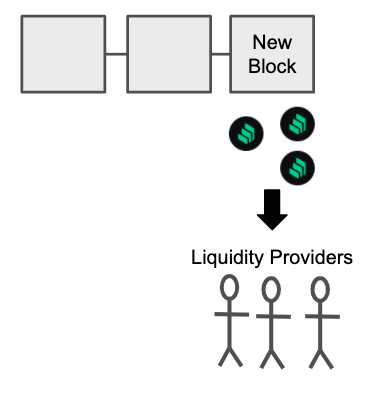
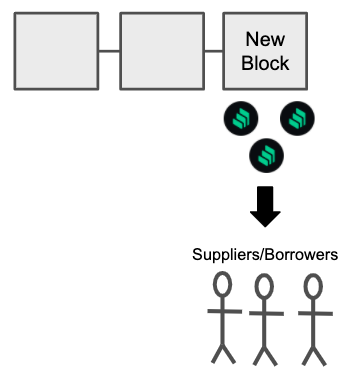
compound guide draft3

Changed region(s): [[0.0307, 0.0311, 0.8911, 0.5907], [0.4916, 0.6218, 0.9525, 0.9637]]

diff --git a/docs/guides/graphical-guide-to-compound.md b/docs/guides/graphical-guide-to-compound.md
@@ -1,18 +1,21 @@
 # A Graphical Guide to Compound
 
 ## Summary
-Compound is a series of smart contracts that allows users to earn interest on their Ethereum assets. What makes Compound unique is that there isn’t a direct counterparty that you have to negotiate with, instead a user only needs to supply their assets and they immediately begin earning interest. There is no hassle of having to discuss a rate or a period of time your assets are required to be locked up for. Users can also borrow different assets from Compound against the ones that they have supplied. Lastly, the supply and borrow rates for each asset are dynamically calculated based on the supply and borrow demand of the protocol.
+The Compound protocol is a series of smart contracts that allows users to earn interest on their Ethereum assets. What makes the protocol unique is that there isn’t a direct counterparty that you have to negotiate with, instead a user only needs to supply their assets and they immediately begin earning interest. There is no hassle of having to discuss a rate or a period of time your assets are required to be locked up for. Users can also borrow different assets from the protocol against the ones that they have supplied. Lastly, the supply and borrow rates for each asset are dynamically calculated based on the supply and borrow demand of the protocol.
+
+In addition, the list of assets that can be supplied and borrowed on Compound can be found [here](https://compound.finance/markets).
 
 ![coin stack](/docs/assets/images/compound_guide/coin_stack.jpg)
 
-This guide is meant to give a basic understanding of what Compound is. I recommend [this article](https://medium.com/compound-finance/the-compound-guide-to-supplying-borrowing-crypto-assets-94821f2950a0) if you are interested in how to use Compound specifically.
+Lastly, this guide is meant to give a basic understanding of what Compound is. I recommend [this article](https://medium.com/compound-finance/the-compound-guide-to-supplying-borrowing-crypto-assets-94821f2950a0) if you are interested in how to use Compound specifically.
+
 
 ## Supplying Assets and Receiving cTokens 
-When anyone supplies an asset to Compound they are rewarded with the corresponding cToken for their deposit. For example if someone locks up Dai they will receive an amount of cDai in return. cTokens are a deposit split that shows that you have added liquidity to the protocol and can be used to reclaim the underlying asset that was supplied plus the accrued interest, which is accrued for each block that is mined while the asset is locked in Compound.
+When anyone supplies an asset to the Compound protocol they are then given the corresponding cToken for their deposit. For example if someone locks up Dai they will receive an amount of cDai in return. cTokens are a deposit split that shows that you have added liquidity to the protocol and can be used to reclaim the underlying asset that was supplied plus the accrued interest, which is accrued for each block that is mined while the asset is locked in the protocol.
 
 ![comp supply](/docs/assets/images/compound_guide/comp_supply.png)
 
-It is important to note that the amount of cTokens that a user receives isn’t a 1 to 1 ratio to the token that was added. For example, if you supplied 100 Dai to Compound you wouldn’t receive 100 cDai. The reason for this is that the cDai has an ever improving redemption rate based on the interest rate set by Compound. Let’s say that for every 1 Dai you supply to Compound the protocol gives you 9 cDai. As time passes your Dai is earning interest, but your wallet will still only hold 9 cDai. However, when you go to redeem your cDai for Dai the rate will have improved, let’s say to 8 cDai for 1 Dai based on the interest accrued. As a result, your interest is paid to you in an ever improving exchange rate between the cToken and the underlying asset. 
+It is important to note that the amount of cTokens that a user receives isn’t a 1 to 1 ratio to the token that was added. For example, if you supplied 100 Dai to the Compound protocol you wouldn’t receive 100 cDai. The reason for this is that the cDai has an ever improving redemption rate based on the interest rate set by protocol. Let’s say that for every 1 Dai you supply to Compound the protocol gives you 9 cDai. As time passes your Dai is earning interest, but your wallet will still only hold 9 cDai. However, when you go to redeem your cDai for Dai the rate will have improved, let’s say to 8 cDai for 1 Dai based on the interest accrued. As a result, your interest is paid to you in an ever improving exchange rate between the cToken and the underlying asset. 
 
 ![cToken Redeem](/docs/assets/images/compound_guide/cToken_redeem.png)
 
@@ -31,23 +34,23 @@ _Or, you could withdraw a portion, such as your original 1,000 DAI, which would 
 
 ## The Utility of cTokens 
 
-cTokens makes it easier for both users and developers to interact with Compound. cTokens are [ERC20 tokens](https://docs.ethhub.io/guides/a-straightforward-guide-erc20-tokens/), which is the defacto token standard on Ethereum. Almost all developers are already familiar with the ERC20 standard and most users have wallets that support ERC20 tokens. 
+cTokens makes it easier for both users and developers to interact with the Compound protocol. cTokens are [ERC20 tokens](https://docs.ethhub.io/guides/a-straightforward-guide-erc20-tokens/), which is the defacto token standard on Ethereum. Almost all developers are already familiar with the ERC20 standard and most users have wallets that support ERC20 tokens. 
 
-Having Compound balances tokenized allows for a greater amount of compossibility. Since these tokens can be easily transferred like any other token, they can be created with one address, sent to a cold storage address that has never been touched, and securely earn interest for you. They can also be sold on an exchange or even potentially used as collateral for a loan on a different platform. 
+Having Compound’s balances tokenized allows for a greater amount of compossibility. Since these tokens can be easily transferred like any other token, they can be created with one address, sent to a cold storage address that has never been touched, and securely earn interest for you. They can also be sold on an exchange or even potentially used as collateral for a loan on a different platform. 
 
 ![cToken uses](/docs/assets/images/compound_guide/cToken_uses.png)
 
 In addition, cTokens can also be incorporated into other financial products. One of the most interesting integrations is the ETH 20 MA Crossover Yield Set II from TokenSets. This set rebalances between cUSDC and Eth based on the 20 Day simple moving average of Ether’s price. This use case is interesting because by using cUSDC that when the set rebalances away from Eth not only has it moved to a stable position, it will also be earning interest for you until the next rebalance. 
 
 ## Borrowing Assets
-Once users have locked up assets and hold cTokens, they are then able to borrow different assets from Compound. For example a user that has locked Dai to create cDai, can then use that cDai as collateral to borrow Bat. Borrowing in most cases allows users to be able to either short or long an asset. It is important to note that there are certain collateral ratios for each asset based on the quality of the collateral. If the price of the asset you borrowed versus the one that you supplied diverges too far, then you have the possibility of having a portion of your collateral liquidated.
+Once users have locked up assets and hold cTokens, they are then able to borrow different assets from the protocol. For example a user that has locked Dai to create cDai, can then use that cDai as collateral to borrow Bat. Borrowing in most cases allows users to be able to either short or long an asset. It is important to note that there are certain collateral ratios for each asset based on the quality of the collateral. If the price of the asset you borrowed versus the one that you supplied diverges too far, then you have the possibility of having a portion of your collateral liquidated.
 
 ![comp borrow](/docs/assets/images/compound_guide/comp_borrow.png)
 
-Another thing to point out is that the rate to borrow an asset on Compound is usually higher than the rate for supplying an asset. The reason behind this is that since Compound pools liquidity not all the funds that have been supplied will be borrowed, yet all funds added to Compound earn interest. As a result the borrow rate must be higher than the supply rate to make sure that all users that are supplying assets are given a rate even if their assets aren’t currently being borrowed. 
+Another thing to point out is that the rate to borrow an asset on the Compound protocol is usually higher than the rate for supplying an asset. The reason behind this is that since the protocol pools liquidity not all the funds that have been supplied will be borrowed, yet all funds added earn interest. As a result the borrow rate must be higher than the supply rate to make sure that all users that are supplying assets are given a rate even if their assets aren’t currently being borrowed. 
 
 ## Governance with Comp Tokens
-Previously the upgradability of the Compound smart contracts was solely controlled by the Compound team. However, with their recent upgrade and release of their governance token Comp, the upgrades are now controlled by a governance contract that makes changes based on votes from Comp token holders. This governance upgrade can be thought of as if a single key controlled Compound, but was then that key was broken into small pieces and those pieces were distributed to many different people across the internet. Now if a change is to be made, then enough Comp token holders need to come together and “reforge” the key to push the change. In addition, in order to counteract voter apathy, Comp token holders are able to delegate their voting power to another address which can vote on their behalf.
+Previously the upgradability of the Compound protocol’s smart contracts was solely controlled by Compound Labs. However, with their recent upgrade and release of their governance token Comp, the upgrades are now controlled by a governance contract that makes changes based on votes from Comp token holders. This governance upgrade can be thought of as if a single key controlled the protocol, but that key was broken into small pieces and those pieces were distributed to many different people across the internet. Now if a change is to be made, then enough Comp token holders need to come together and “reforge” the key to push the change. 
 
 Specific details on how voting works from the [Compound FAQ](https://medium.com/compound-finance/faq-1a2636713b69). 
 
@@ -56,19 +59,21 @@ _Any address with more than 100,000 COMP delegated to it may propose governance 
 ![comp voting](/docs/assets/images/compound_guide/comp_voting.png)
 
 ## Liquidity Mining
-Previously, the main methods of governance token distribution had been through having an ICO. Recently however, many defi projects have been shifting to a new method called liquidity mining. Liquidity mining is a process where users lock up assets into a protocol and over time are rewarded with governance tokens. Users can now lock up liquidity into the Compound and based on the amount they have contributed are given a certain amount of on Comp tokens. The main idea behind this is that it rewards people that are using the protocol, rather than having an ICO which rewards speculators. Currently, the distribution of Comp through liquidity mining is going to last a little over 4 years.
+Previously, the main methods of governance token distribution had been through having an ICO. Recently however, many defi projects have been shifting to a new method called liquidity mining. Liquidity mining is a process where users lock up assets into a protocol and over time are rewarded with governance tokens. Users can now lock up liquidity into the Compound and based on the amount they have either supplied or borrowed are given a certain amount of on Comp tokens. The main idea behind this is that it rewards people that are using the protocol, rather than having an ICO which rewards speculators. Currently, the distribution of Comp through liquidity mining is going to last a little over 4 years.
 
+Additional details can be found [here](https://medium.com/compound-finance/expanding-compound-governance-ce13fcd4fe36)
 
-_4,229,949 COMP will be placed into a Reservoir contract, which transfers 0.50 COMP per Ethereum block (~2,880 per day) into the protocol for distribution._
+_4,229,949 COMP will be placed into a Reservoir contract, which transfers 0.50 COMP per Ethereum block (~2,880 per day) into the protocol for distribution._ 
 
 ![liqu mining](/docs/assets/images/compound_guide/liqu_mining.png)
 
 ## Conclusion
-Compound is a simple way for users to earn interest on their assets without having to negotiate with a counterparty. Most likely users in the future won’t even know that they are using Compound, they will simply add funds and the apps they are using will then pass them onto Compound. With no counterparty to negotiate with, no hard time lock requirements Compound makes it seamless to earn interest or gain exposure to another asset.
+The Compound protocol creates a simple way for users to earn interest on their assets without having to negotiate with a counterparty. Most likely users in the future won’t even know that they are using the protocol, they will simply add funds and the apps they are using will then pass them onto Compound. With no counterparty to negotiate with and no hard time lock requirements, Compound makes it seamless to earn interest or gain exposure to another asset.
 
 ## Resources
 
 * [Compound Docs](https://compound.finance/docs)
 * [Compound FAQ](https://medium.com/compound-finance/faq-1a2636713b69)
 * [Compound cTokens](https://compound.finance/ctokens)
+* [Expanding Compound Governance](https://medium.com/compound-finance/expanding-compound-governance-ce13fcd4fe36)
 
